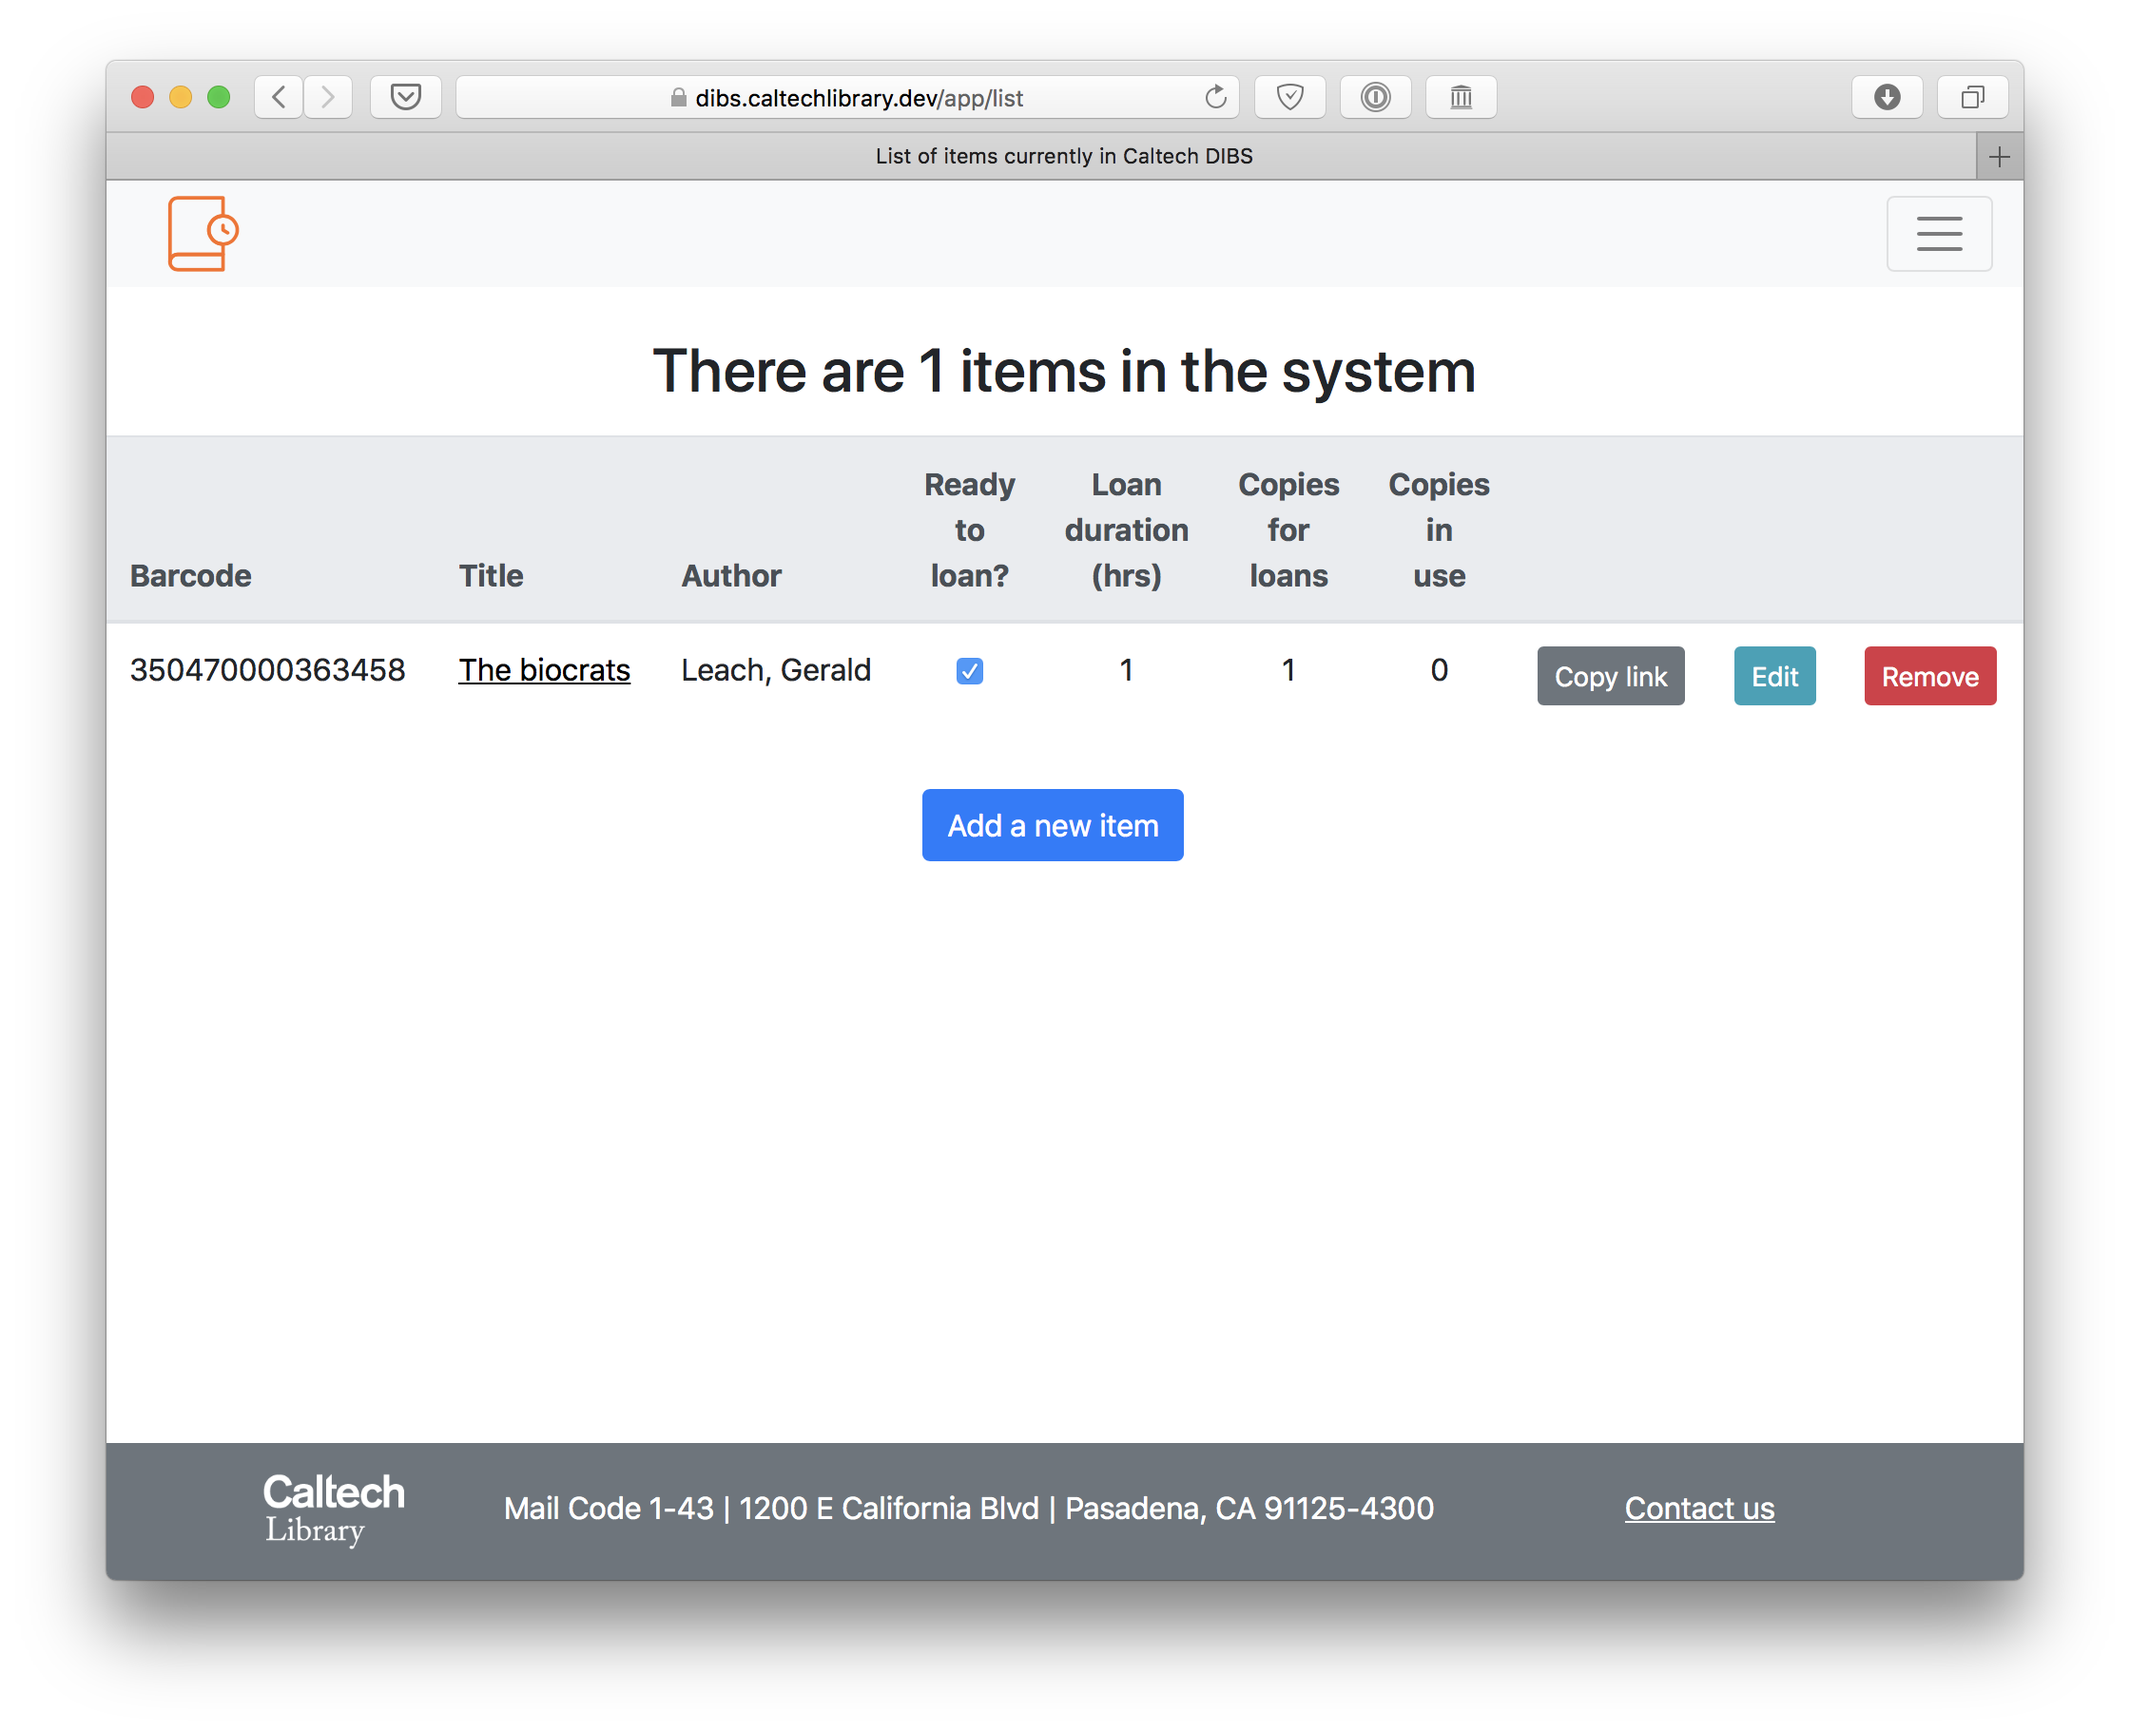
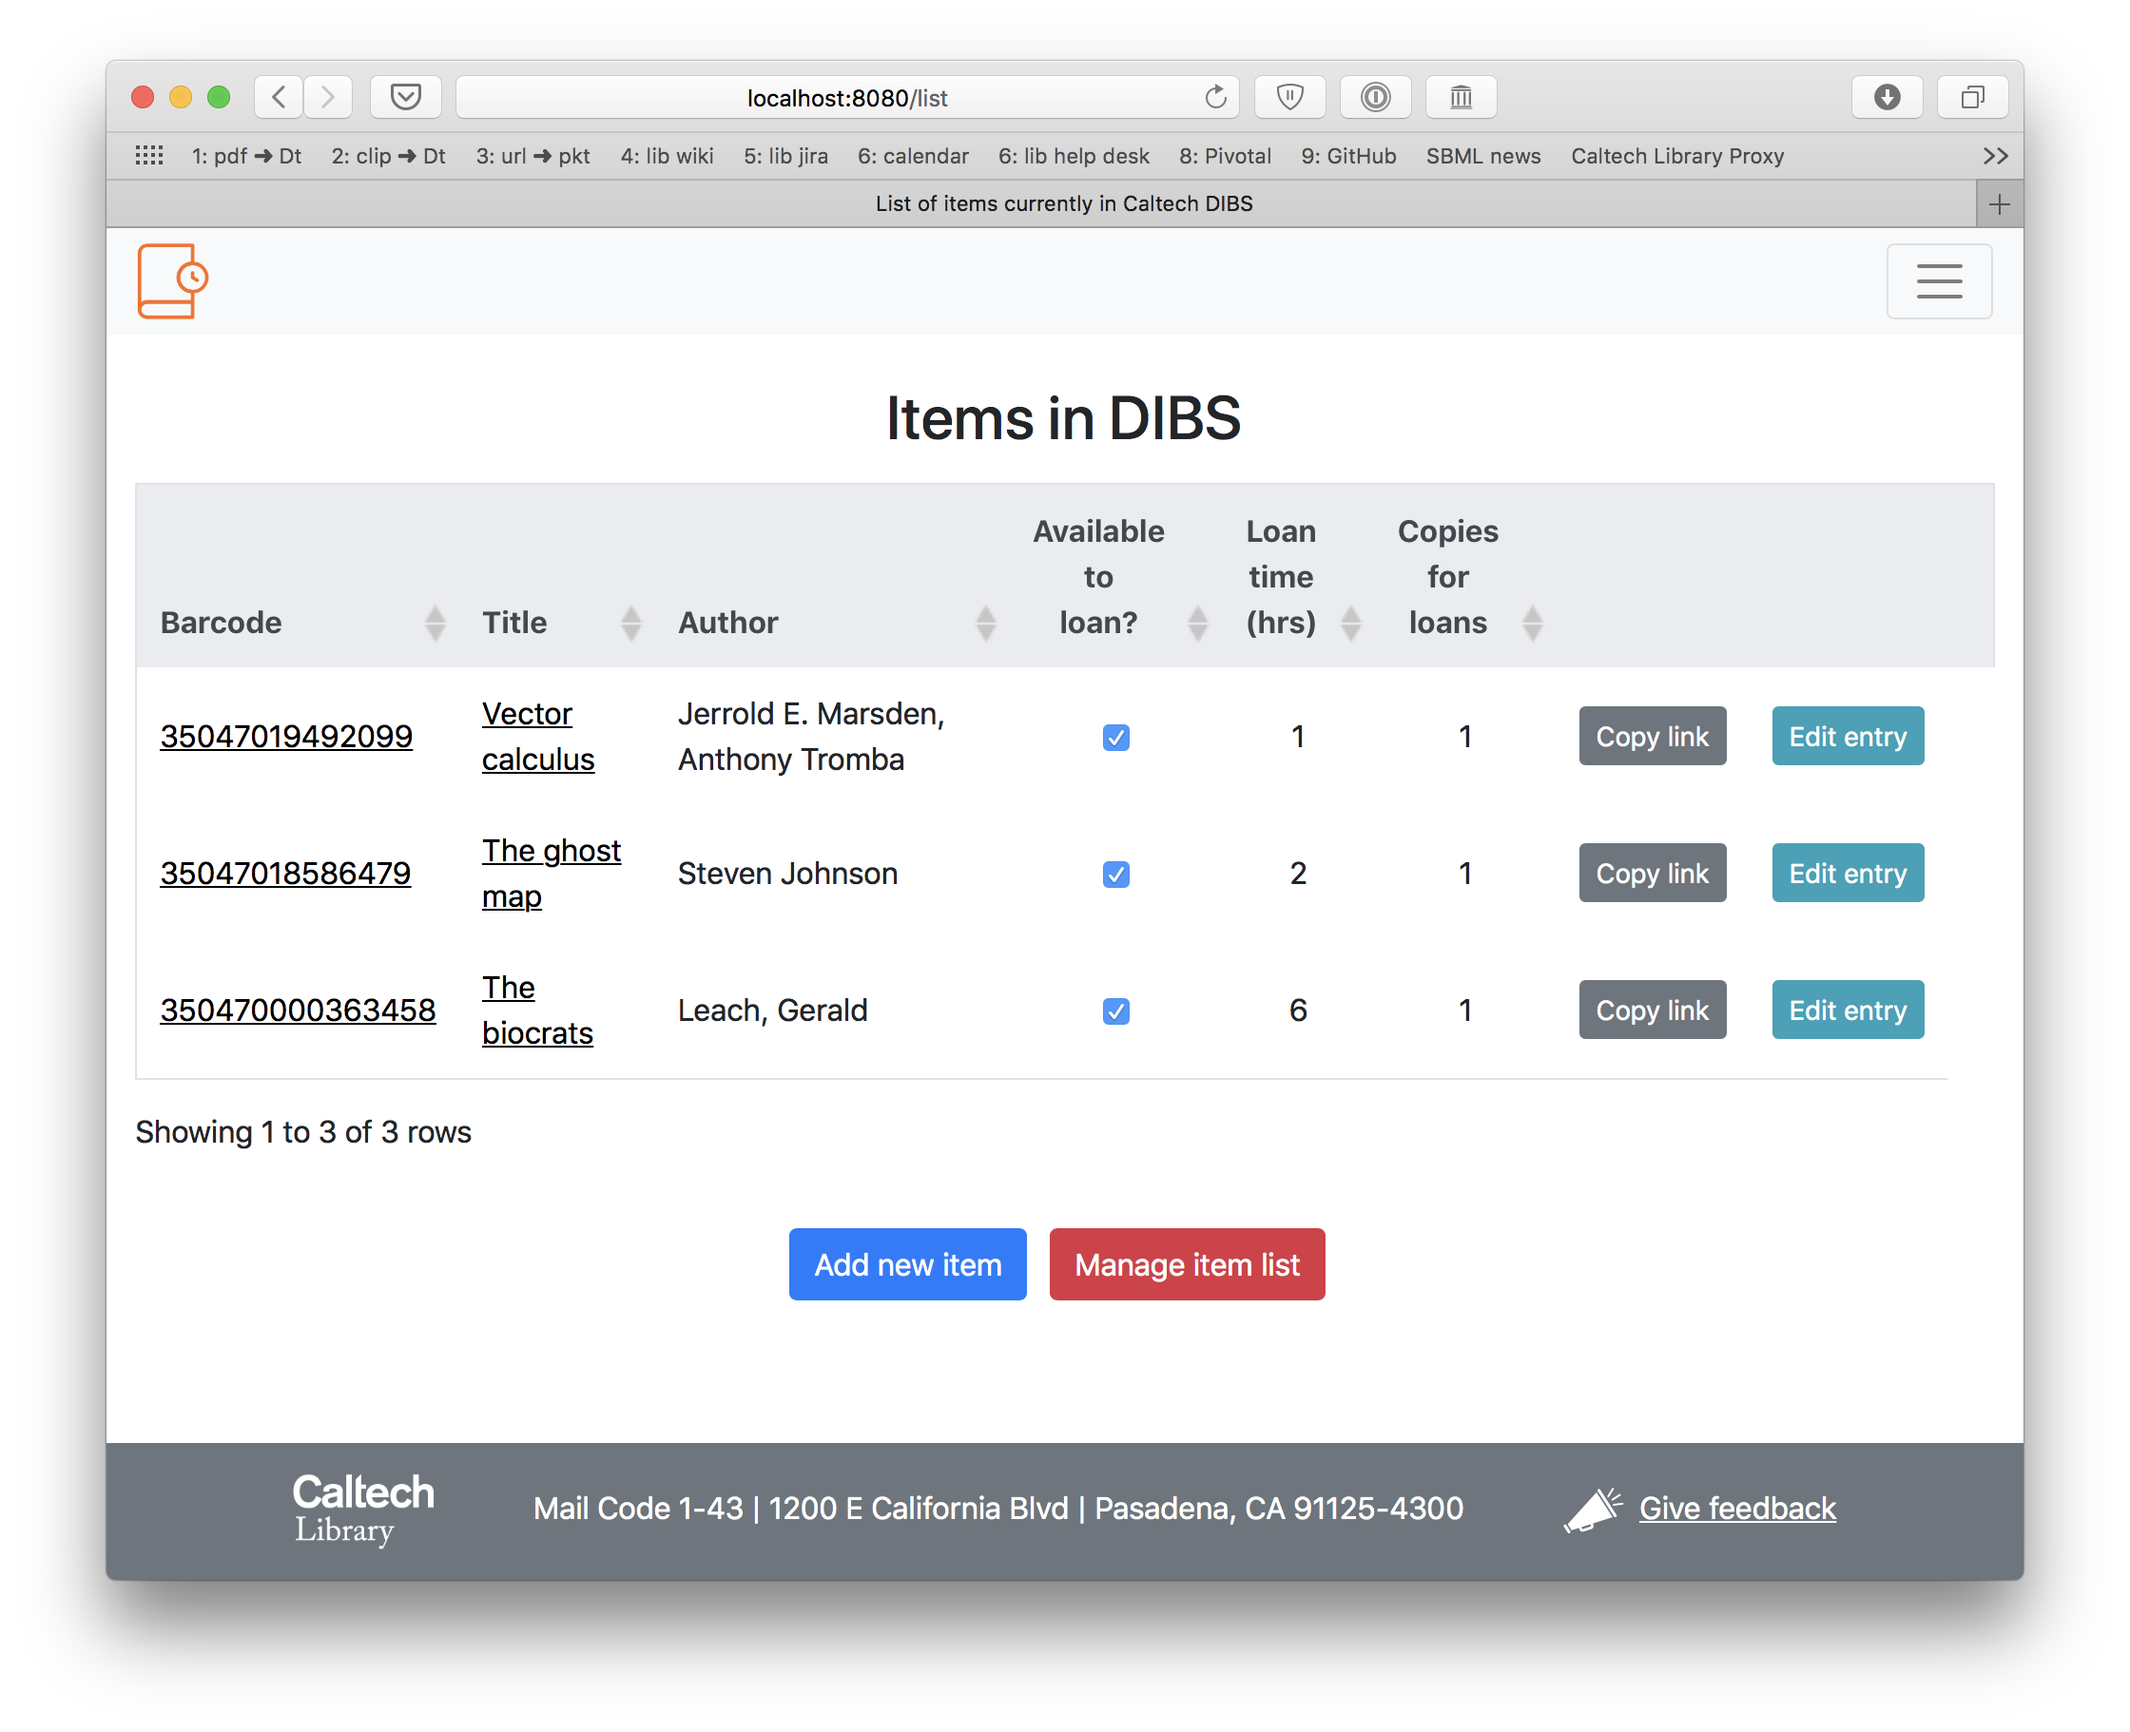
Update docs to reflect current working version

diff --git a/docs/usage.md b/docs/usage.md
@@ -7,10 +7,10 @@ This page describes how DIBS works from the users' standpoint.  A separate secti
 
 The current design of DIBS is focused on helping instructors and students enrolled in classes.  DIBS provides fairly distinct experiences for patrons on the one hand, and staff on the other; this separation is due to expectations about how different classes of users will interact with the system:
 
-1. We expect patrons to be mainly students enrolled in educational courses at Caltech.  We expect that patrons looking for materials to borrow will be informed about the availability of specific items via course syllabi or similar resources produced by course instructors.  Consequently, DIBS does not currently expose to patrons a catalog of "all things available for digital loan via DIBS"; in part, this is because such a list was not considered to be useful for DIBS's use-cases, and in part because in the future we expect to add links directly to Caltech's TIND database.
+1. We expect that patrons looking for materials to borrow will be informed about the availability of specific items via course syllabi or similar resources produced by course instructors.  Consequently, DIBS does not currently expose to patrons a separate index of "all things available for digital loan via DIBS"; in part, this is because such a list was not considered to be useful for DIBS's use-cases, and in part because in the future we expect to add links directly to Caltech's TIND database.
 2. We expect that library staff need to interact with the system in a quite different way: to add new items to the database of digitized works and control loan parameters.  Thus, staff _do_ see a list of all items available through the system, but access to this list is limited to Library staff.
 
-These considerations explain the front page of DIBS, which (perhaps contrary to expectations), lacks a login interface or a list of titles available in the system.  The front page acts mainly as an information page that describes the purpose of the system and the policies:
+These considerations explain the front page of DIBS, which (perhaps contrary to expectations), lacks a login interface or a list of items.  In normal use, we expect that users will usually go straight to either the pages describing individual items or the staff entry point.  The front page acts mainly as an information page that describes the purpose of the system and the policies:
 
 <figure>
     <img src="_static/media/welcome-page.png">
@@ -25,7 +25,7 @@ As mentioned above, patrons are presumed to be provided information about specif
     <img src="_static/media/item-page.png">
 </figure>
 
-The item description page provides basic information about a particular title available through DIBS, along with a button to request a digital loan.  The information about the title is derived from Caltech's TIND server based on the barcode used by Library staff when they add the item to DIBS. (The thumbnail image is obtained from either Amazon or Google using the item's ISBN, if it has one; otherwise, a blank is shown instead.)
+The item description page provides basic information about a particular title available through DIBS, along with a button to request a digital loan.  The information about the title is derived from Caltech's TIND server based on the barcode used by Library staff when they add the item to DIBS. 
 
 The text and button shown in the lower half of the page change based on the current availability of the item. The page will show a  <span class="button color-primary">Get loan</span> button if the item is available for loan at that time.  If the item is not available to the patron, the button changes to <span class="button color-not-available">Not available</span>, and in addition, the text above the button provides information about why it is not available and when it will be available again:
 
@@ -73,18 +73,26 @@ As its name implies, the list page provides a list all of the items known to DIB
 * **Barcode**: the barcode identifying the item in the Caltech Library.
 * **Title**: the title of the item. This is entered free-form in the DIBS entry form and does not have to match the actual title in Caltech's TIND database.
 * **Author**: the author of the item. This is entered free-form in the DIBS entry form and does not have to match the actual author in Caltech's TIND database.
-* **Ready to loan?**: when unchecked, the item is not made available for digital loans. This allows staff who scan the items to start making an entry in DIBS and continue scanning. When done, staff can check the "Ready to loan?" checkbox and make it available to digital patrons.
+* **Available to loan?**: when unchecked, the item is not made available for digital loans. This allows staff who scan the items to start making an entry in DIBS and continue scanning. When done, staff can check the "Available to loan?" checkbox and make it available to digital patrons.
 * **Loan duration**: the duration of a loan. The system automatically closes the loan after the loan period and blocks the patron's access. (Patrons can also close loans early if they wish.)
 * **Copies for loans**: how many copies of the item are being made available for simultaneous borrowing?
-* **Copies in use**: indicates the number of copies of the item on loan at the moment.
 * <span class="button color-secondary">Copy link</span>: this copies to the user's clipboard a link to the item loan page.  This is what should be communicated to course instructors, so that they can pass on the URLs to their students.
-* <span class="button color-info">Edit</span>: edit the entry. This brings up the same form as is used to add new entries, but with the values filled in, allowing the user to change the values and save the results.
-* <span class="button color-danger">Remove</span>: remove the entry for the item in the DIBS database. This does not remove the scans or other files, only the database entry.
+* <span class="button color-info">Edit entry</span>: edit the entry. This brings up the same form as is used to add new entries, but with the values filled in, allowing the user to change the values and save the results.
 
-If the user clicks the <span class="button color-primary">Add a new item</span> button, they are presented with the following screen:
+The two buttons on the bottom the of page allow staff users to either add new items, or edit the list of items (to remove entries to the list).  If the user clicks the <span class="button color-primary">Add new item</span> button, they are presented with the following screen:
 
 <figure>
     <img src="_static/media/add-item-page.png">
 </figure>
 
 Here, information can be entered to describe a new item being made available for digital loans.  All of the information about a given item is based on the barcode; this barcode is used to look up the item in Caltech's TIND server, and the information extracted from TIND is used to populate the item view page discussed in the previous section.
+
+If the user clicks the <span class="button color-danger">Manage item list</span> button, they are presented with the following screen:
+
+<figure>
+    <img src="_static/media/manage-item-list-page.png">
+</figure>
+
+In the current version of DIBS, this page only implements one action. Clicking the <span class="button color-danger">Delist</span> button removes the entry for the item in the DIBS database. (This does not remove the manifest, scans, or other files, only the database entry.) In future versions of DIBS, the management page may include additional operations.
+
+
